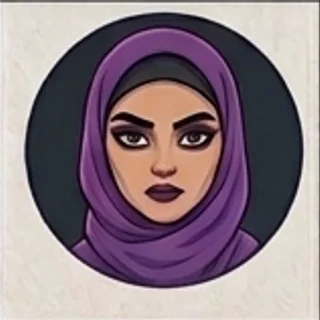
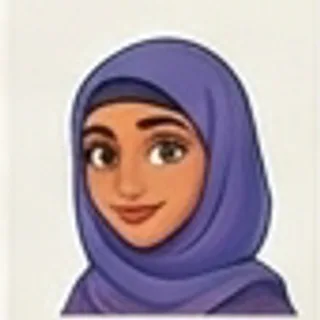
Replace character roster with new illustrated portraits, Arabic names
Swap the 88-character English-named roster for 48 new portraits,
converted from PNG to WebP (cropping a stray edge artifact from the
source export and matching the existing square/circle framing). Each
character's display name is now the Arabic translation of its
filename instead of the English name, matching the rest of the
Arabic-only UI. Updated stale asset-count/size references in
CLAUDE.md and a code comment, and fixed an engine test that hardcoded
a now-removed character id.

diff --git a/web/src/data/characters.ts b/web/src/data/characters.ts
@@ -1,109 +1,74 @@
 import type { Character } from "@/game/types";
 
 /**
- * The full character roster (88 illustrated portraits, ~9.5KB webp each —
+ * The full character roster (48 illustrated portraits, ~5KB webp each —
  * see /public/characters/*.webp — small enough that the PWA's runtime
  * image cache picks them all up after the first load, see
  * next.config.js). `image` is just a static asset path, so
  * swapping/adding artwork never touches game logic.
+ *
+ * `id` mirrors the source artwork's filename (lowercased); `name` is the
+ * Arabic display name shown in the UI (see CLAUDE.md "Coding conventions"
+ * — all UI copy is Arabic), independent of the asset filename.
  *
  * No per-character attributes are stored (no `hasGlasses`, `hairColor`,
  * etc.) — see CLAUDE.md "Game rules" for why that data was removed.
  *
  * A single game never uses the whole roster — see `data/difficulty.ts`'s
  * `pickRandomCharacterIds`, which draws a random subset sized to the
- * chosen difficulty (15 / 20 / 30) from everything here, so the board
- * looks different game to game even at the same difficulty.
+ * chosen difficulty (15 / 20 / 30, clamped to the roster size) from
+ * everything here, so the board looks different game to game even at the
+ * same difficulty.
  */
 export const CHARACTERS: Character[] = [
-  { id: "aaron", name: "Aaron", image: "/characters/aaron.webp" },
-  { id: "abdelrahman", name: "Abdelrahman", image: "/characters/abdelrahman.webp" },
-  { id: "adel", name: "Adel", image: "/characters/adel.webp" },
-  { id: "adrian", name: "Adrian", image: "/characters/adrian.webp" },
-  { id: "ahmed", name: "Ahmed", image: "/characters/ahmed.webp" },
-  { id: "alexander", name: "Alexander", image: "/characters/alexander.webp" },
-  { id: "amal", name: "Amal", image: "/characters/amal.webp" },
-  { id: "amelia", name: "Amelia", image: "/characters/amelia.webp" },
-  { id: "amina", name: "Amina", image: "/characters/amina.webp" },
-  { id: "amr", name: "Amr", image: "/characters/amr.webp" },
-  { id: "antar", name: "Antar", image: "/characters/antar.webp" },
-  { id: "arthur", name: "Arthur", image: "/characters/arthur.webp" },
-  { id: "aya", name: "Aya", image: "/characters/aya.webp" },
-  { id: "bianca", name: "Bianca", image: "/characters/bianca.webp" },
-  { id: "charles", name: "Charles", image: "/characters/charles.webp" },
-  { id: "chloe", name: "Chloe", image: "/characters/chloe.webp" },
-  { id: "diana", name: "Diana", image: "/characters/diana.webp" },
-  { id: "dina", name: "Dina", image: "/characters/dina.webp" },
-  { id: "dylan", name: "Dylan", image: "/characters/dylan.webp" },
-  { id: "edward", name: "Edward", image: "/characters/edward.webp" },
-  { id: "eleanor", name: "Eleanor", image: "/characters/eleanor.webp" },
-  { id: "elena", name: "Elena", image: "/characters/elena.webp" },
-  { id: "ella", name: "Ella", image: "/characters/ella.webp" },
-  { id: "esraa", name: "Esraa", image: "/characters/esraa.webp" },
-  { id: "eva", name: "Eva", image: "/characters/eva.webp" },
-  { id: "evelyn", name: "Evelyn", image: "/characters/evelyn.webp" },
-  { id: "farida", name: "Farida", image: "/characters/farida.webp" },
-  { id: "fatima", name: "Fatima", image: "/characters/fatima.webp" },
-  { id: "francis", name: "Francis", image: "/characters/francis.webp" },
-  { id: "grace", name: "Grace", image: "/characters/grace.webp" },
-  { id: "hala", name: "Hala", image: "/characters/hala.webp" },
-  { id: "hannah", name: "Hannah", image: "/characters/hannah.webp" },
-  { id: "hany", name: "Hany", image: "/characters/hany.webp" },
-  { id: "harper", name: "Harper", image: "/characters/harper.webp" },
-  { id: "hassan", name: "Hassan", image: "/characters/hassan.webp" },
-  { id: "hazel", name: "Hazel", image: "/characters/hazel.webp" },
-  { id: "heba", name: "Heba", image: "/characters/heba.webp" },
-  { id: "helen", name: "Helen", image: "/characters/helen.webp" },
-  { id: "henry", name: "Henry", image: "/characters/henry.webp" },
-  { id: "ibrahim", name: "Ibrahim", image: "/characters/ibrahim.webp" },
-  { id: "jackson", name: "Jackson", image: "/characters/jackson.webp" },
-  { id: "james", name: "James", image: "/characters/james.webp" },
-  { id: "jasmine", name: "Jasmine", image: "/characters/jasmine.webp" },
-  { id: "joseph", name: "Joseph", image: "/characters/joseph.webp" },
-  { id: "karim", name: "Karim", image: "/characters/karim.webp" },
-  { id: "khaled", name: "Khaled", image: "/characters/khaled.webp" },
-  { id: "layla", name: "Layla", image: "/characters/layla.webp" },
-  { id: "leah", name: "Leah", image: "/characters/leah.webp" },
-  { id: "lily", name: "Lily", image: "/characters/lily.webp" },
-  { id: "lucas", name: "Lucas", image: "/characters/lucas.webp" },
-  { id: "mahmoud", name: "Mahmoud", image: "/characters/mahmoud.webp" },
-  { id: "mariam", name: "Mariam", image: "/characters/mariam.webp" },
-  { id: "martin", name: "Martin", image: "/characters/martin.webp" },
-  { id: "mason", name: "Mason", image: "/characters/mason.webp" },
-  { id: "matthew", name: "Matthew", image: "/characters/matthew.webp" },
-  { id: "mona", name: "Mona", image: "/characters/mona.webp" },
-  { id: "mostafa", name: "Mostafa", image: "/characters/mostafa.webp" },
-  { id: "nabil", name: "Nabil", image: "/characters/nabil.webp" },
-  { id: "nadia", name: "Nadia", image: "/characters/nadia.webp" },
-  { id: "nora", name: "Nora", image: "/characters/nora.webp" },
-  { id: "nour", name: "Nour", image: "/characters/nour.webp" },
-  { id: "olivia", name: "Olivia", image: "/characters/olivia.webp" },
-  { id: "omar", name: "Omar", image: "/characters/omar.webp" },
-  { id: "owen", name: "Owen", image: "/characters/owen.webp" },
-  { id: "patrick", name: "Patrick", image: "/characters/patrick.webp" },
-  { id: "penelope", name: "Penelope", image: "/characters/penelope.webp" },
-  { id: "rana", name: "Rana", image: "/characters/rana.webp" },
-  { id: "rania", name: "Rania", image: "/characters/rania.webp" },
-  { id: "roma", name: "Roma", image: "/characters/roma.webp" },
-  { id: "ruben", name: "Ruben", image: "/characters/ruben.webp" },
-  { id: "salah", name: "Salah", image: "/characters/salah.webp" },
-  { id: "salma", name: "Salma", image: "/characters/salma.webp" },
-  { id: "samer", name: "Samer", image: "/characters/samer.webp" },
-  { id: "samir", name: "Samir", image: "/characters/samir.webp" },
-  { id: "samuel", name: "Samuel", image: "/characters/samuel.webp" },
-  { id: "scarlett", name: "Scarlett", image: "/characters/scarlett.webp" },
-  { id: "sobhy", name: "Sobhy", image: "/characters/sobhy.webp" },
-  { id: "sophia", name: "Sophia", image: "/characters/sophia.webp" },
-  { id: "stella", name: "Stella", image: "/characters/stella.webp" },
-  { id: "tarek", name: "Tarek", image: "/characters/tarek.webp" },
-  { id: "tawfik", name: "Tawfik", image: "/characters/tawfik.webp" },
-  { id: "thomas", name: "Thomas", image: "/characters/thomas.webp" },
-  { id: "victor", name: "Victor", image: "/characters/victor.webp" },
-  { id: "violet", name: "Violet", image: "/characters/violet.webp" },
-  { id: "walid", name: "Walid", image: "/characters/walid.webp" },
-  { id: "william", name: "William", image: "/characters/william.webp" },
-  { id: "youssef", name: "Youssef", image: "/characters/youssef.webp" },
-  { id: "ziad", name: "Ziad", image: "/characters/ziad.webp" },
+  { id: "abdelrahman", name: "عبد الرحمن", image: "/characters/abdelrahman.webp" },
+  { id: "adel", name: "عادل", image: "/characters/adel.webp" },
+  { id: "ahmed", name: "أحمد", image: "/characters/ahmed.webp" },
+  { id: "ahmed2", name: "أحمد", image: "/characters/ahmed2.webp" },
+  { id: "ali", name: "علي", image: "/characters/ali.webp" },
+  { id: "amr", name: "عمرو", image: "/characters/amr.webp" },
+  { id: "aya", name: "آية", image: "/characters/aya.webp" },
+  { id: "ayman", name: "أيمن", image: "/characters/ayman.webp" },
+  { id: "dina", name: "دينا", image: "/characters/dina.webp" },
+  { id: "donia", name: "دنيا", image: "/characters/donia.webp" },
+  { id: "esraa", name: "إسراء", image: "/characters/esraa.webp" },
+  { id: "farah", name: "فرح", image: "/characters/farah.webp" },
+  { id: "fathy", name: "فتحي", image: "/characters/fathy.webp" },
+  { id: "fatma", name: "فاطمة", image: "/characters/fatma.webp" },
+  { id: "gamal", name: "جمال", image: "/characters/gamal.webp" },
+  { id: "hala", name: "هالة", image: "/characters/hala.webp" },
+  { id: "hamdy", name: "حمدي", image: "/characters/hamdy.webp" },
+  { id: "hassan", name: "حسن", image: "/characters/hassan.webp" },
+  { id: "heba", name: "هبة", image: "/characters/heba.webp" },
+  { id: "hossam", name: "حسام", image: "/characters/hossam.webp" },
+  { id: "huda", name: "هدى", image: "/characters/huda.webp" },
+  { id: "ibrahim", name: "إبراهيم", image: "/characters/ibrahim.webp" },
+  { id: "karim", name: "كريم", image: "/characters/karim.webp" },
+  { id: "khaled", name: "خالد", image: "/characters/khaled.webp" },
+  { id: "maher", name: "ماهر", image: "/characters/maher.webp" },
+  { id: "mahmoud", name: "محمود", image: "/characters/mahmoud.webp" },
+  { id: "mariam", name: "مريم", image: "/characters/mariam.webp" },
+  { id: "menna", name: "منة", image: "/characters/menna.webp" },
+  { id: "mohamed", name: "محمد", image: "/characters/mohamed.webp" },
+  { id: "mona", name: "منى", image: "/characters/mona.webp" },
+  { id: "mostafa", name: "مصطفى", image: "/characters/mostafa.webp" },
+  { id: "nabil", name: "نبيل", image: "/characters/nabil.webp" },
+  { id: "nadia", name: "نادية", image: "/characters/nadia.webp" },
+  { id: "nour", name: "نور", image: "/characters/nour.webp" },
+  { id: "omar", name: "عمر", image: "/characters/omar.webp" },
+  { id: "ragab", name: "رجب", image: "/characters/ragab.webp" },
+  { id: "rania", name: "رانيا", image: "/characters/rania.webp" },
+  { id: "reem", name: "ريم", image: "/characters/reem.webp" },
+  { id: "salma", name: "سلمى", image: "/characters/salma.webp" },
+  { id: "samir", name: "سمير", image: "/characters/samir.webp" },
+  { id: "sayed", name: "سيد", image: "/characters/sayed.webp" },
+  { id: "seif", name: "سيف", image: "/characters/seif.webp" },
+  { id: "sherif", name: "شريف", image: "/characters/sherif.webp" },
+  { id: "tarek", name: "طارق", image: "/characters/tarek.webp" },
+  { id: "walid", name: "وليد", image: "/characters/walid.webp" },
+  { id: "yasmine", name: "ياسمين", image: "/characters/yasmine.webp" },
+  { id: "yehia", name: "يحيى", image: "/characters/yehia.webp" },
+  { id: "youssef", name: "يوسف", image: "/characters/youssef.webp" },
 ];
 
 export function getCharacterById(id: string): Character | undefined {

diff --git a/web/tests/game/engine.test.ts b/web/tests/game/engine.test.ts
@@ -76,7 +76,7 @@ function selectBoth(pair: { host: GameState; guest: GameState }, hostCharId: str
   return { host, guest };
 }
 
-function fullySetUpGame(hostCharId = "aaron", guestCharId = "abdelrahman") {
+function fullySetUpGame(hostCharId = "ahmed", guestCharId = "abdelrahman") {
   let pair = freshPair();
   pair = connectBoth(pair);
   pair = readyBoth(pair);
@@ -211,9 +211,9 @@ describe("Difficulty selection", () => {
 describe("Character selection", () => {
   it("does not reveal the characterId to the peer — only a commitment hash", () => {
     let pair = readyBoth(connectBoth(freshPair()));
-    const r = applyLocalAction(pair.host, { type: "SELECT_CHARACTER", characterId: "aaron", salt: "s" });
+    const r = applyLocalAction(pair.host, { type: "SELECT_CHARACTER", characterId: "ahmed", salt: "s" });
     expect(r.outgoing[0]).toEqual({ type: "SELECT_CHARACTER", commitment: expect.any(String) });
-    expect(JSON.stringify(r.outgoing[0])).not.toContain("aaron");
+    expect(JSON.stringify(r.outgoing[0])).not.toContain("ahmed");
   });
 
   it("transitions to playing once both players have selected", () => {
@@ -239,7 +239,7 @@ describe("Character selection", () => {
 
   it("rejects selecting twice", () => {
     let pair = readyBoth(connectBoth(freshPair()));
-    let r = applyLocalAction(pair.host, { type: "SELECT_CHARACTER", characterId: "aaron", salt: "s" });
+    let r = applyLocalAction(pair.host, { type: "SELECT_CHARACTER", characterId: "ahmed", salt: "s" });
     const host = r.state;
     r = applyLocalAction(host, { type: "SELECT_CHARACTER", characterId: "abdelrahman", salt: "s2" });
     expect(r.error).toBeTruthy();
@@ -272,7 +272,7 @@ describe("Turns (questions/answers happen out loud, not through the app)", () =>
   });
 
   it("rejects ending a turn while a guess is being resolved", () => {
-    const pair = fullySetUpGame("aaron", "abdelrahman");
+    const pair = fullySetUpGame("ahmed", "abdelrahman");
     const guessR = applyLocalAction(pair.host, { type: "GUESS_CHARACTER", characterId: "abdelrahman" });
     const r = applyLocalAction(guessR.state, { type: "END_TURN" });
     expect(r.error).toBeTruthy();
@@ -298,7 +298,7 @@ describe("Local elimination bookkeeping", () => {
 
 describe("Guessing and winning", () => {
   it("a correct guess makes the guesser win, and reveals the defender's character", () => {
-    const pair = fullySetUpGame("aaron", "abdelrahman"); // guest secretly picked "abdelrahman"
+    const pair = fullySetUpGame("ahmed", "abdelrahman"); // guest secretly picked "abdelrahman"
     const guessR = applyLocalAction(pair.host, { type: "GUESS_CHARACTER", characterId: "abdelrahman" });
     expect(guessR.error).toBeNull();
 
@@ -315,7 +315,7 @@ describe("Guessing and winning", () => {
   });
 
   it("a wrong guess makes the guesser lose immediately", () => {
-    const pair = fullySetUpGame("aaron", "abdelrahman");
+    const pair = fullySetUpGame("ahmed", "abdelrahman");
     const guessR = applyLocalAction(pair.host, { type: "GUESS_CHARACTER", characterId: "adel" }); // wrong
     const guestR = applyRemoteMessage(pair.guest, guessR.outgoing[0], "host");
     expect(guestR.state.winner).toBe("guest"); // defender wins
@@ -327,12 +327,12 @@ describe("Guessing and winning", () => {
 
   it("rejects a guess from the player who does not hold the current turn", () => {
     const pair = fullySetUpGame();
-    const r = applyLocalAction(pair.guest, { type: "GUESS_CHARACTER", characterId: "aaron" });
+    const r = applyLocalAction(pair.guest, { type: "GUESS_CHARACTER", characterId: "ahmed" });
     expect(r.error).toMatch(/turn/i);
   });
 
   it("rejects GUESS_RESULT whose reveal does not match the earlier commitment", () => {
-    const pair = fullySetUpGame("aaron", "abdelrahman");
+    const pair = fullySetUpGame("ahmed", "abdelrahman");
     const guessR = applyLocalAction(pair.host, { type: "GUESS_CHARACTER", characterId: "abdelrahman" });
     // Tamper with the reveal: claim a different character than what was committed to.
     const tampered = { type: "GUESS_RESULT" as const, correct: true, characterId: "adel", salt: "guest-salt" };
@@ -386,7 +386,7 @@ describe("Restarting", () => {
   });
 
   it("resets both sides back to character selection", () => {
-    const pair = fullySetUpGame("aaron", "abdelrahman");
+    const pair = fullySetUpGame("ahmed", "abdelrahman");
     const guessR = applyLocalAction(pair.host, { type: "GUESS_CHARACTER", characterId: "abdelrahman" });
     const guestR = applyRemoteMessage(pair.guest, guessR.outgoing[0], "host");
     const hostFinished = applyRemoteMessage(guessR.state, guestR.outgoing[0], "guest").state;
@@ -401,7 +401,7 @@ describe("Restarting", () => {
   });
 
   it("treats a redundant RESTART_GAME (both players clicked restart) as a harmless no-op", () => {
-    const pair = fullySetUpGame("aaron", "abdelrahman");
+    const pair = fullySetUpGame("ahmed", "abdelrahman");
     const guessR = applyLocalAction(pair.host, { type: "GUESS_CHARACTER", characterId: "abdelrahman" });
     const guestR = applyRemoteMessage(pair.guest, guessR.outgoing[0], "host");
     const hostFinished = applyRemoteMessage(guessR.state, guestR.outgoing[0], "guest").state;

diff --git a/web/src/components/CharacterGrid.tsx b/web/src/components/CharacterGrid.tsx
@@ -63,7 +63,7 @@ export function CharacterGrid({
           >
             {/*
               eslint-disable-next-line @next/next/no-img-element --
-              small local static assets (~9KB each, ~300KB for all 30 —
+              small local static assets (~5KB each, ~150KB for all 30 —
               see data/characters.ts); eager-loaded on purpose so a player
               scrolling their own selection/elimination board never sees
               placeholder pop-in on a screen whose whole point is visually

diff --git a/CLAUDE.md b/CLAUDE.md
@@ -250,7 +250,7 @@ shows SOME indicator during this window instead of looking fully live.
   specific id, so extending the roster or the question bank is a
   data-only change.
 - Character portraits are real illustrated portraits, one static asset
-  path per character under `/public/characters/*.webp` (~9KB each).
+  path per character under `/public/characters/*.webp` (~5KB each).
   `Character.image` is just a `string` path — swapping or adding artwork
   is a data-only change, nothing else in the app needs to know.
 - `Character` has NO gameplay attributes (no `hasGlasses`, `hairColor`,
@@ -311,9 +311,12 @@ Consequences worth knowing if you touch this:
   step after `RESTART_GAME`, which the lobby-only `canSetDifficulty` rule
   currently doesn't allow. Flag this if a rematch is expected to reshuffle
   too — it's a small, deliberate scope call, not an oversight.
-- The full roster has 88 characters (`data/characters.ts`,
+- The full roster has 48 characters (`data/characters.ts`,
   `/public/characters/*.webp`), so all three tiers — including "hard" (30)
-  — are genuine random subsets, not "the whole roster."
+  — are genuine random subsets, not "the whole roster." (`easy`/`medium`
+  are comfortably smaller than the roster too; `characterCountForDifficulty`
+  in `data/difficulty.ts` clamps against `CHARACTERS.length` regardless of
+  roster size, so this stays true even if the roster shrinks further.)
 
 ## Coding conventions
 
